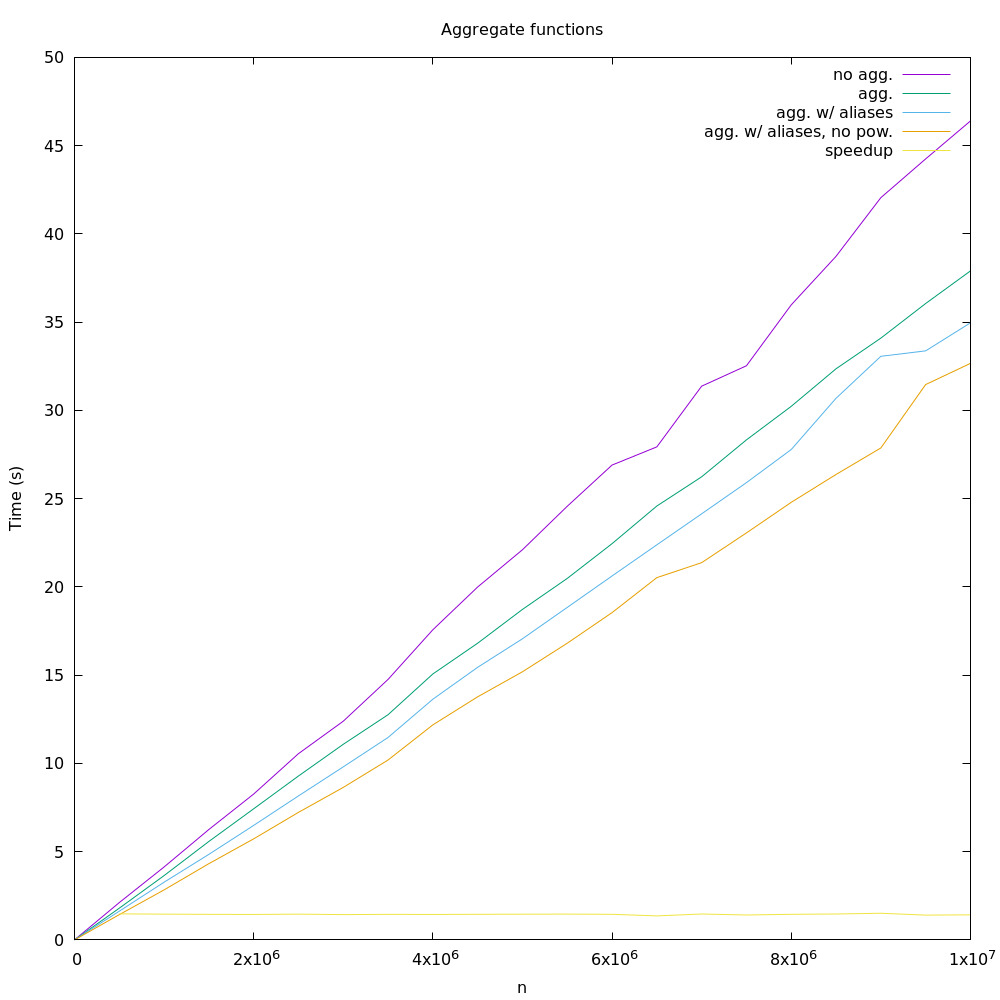
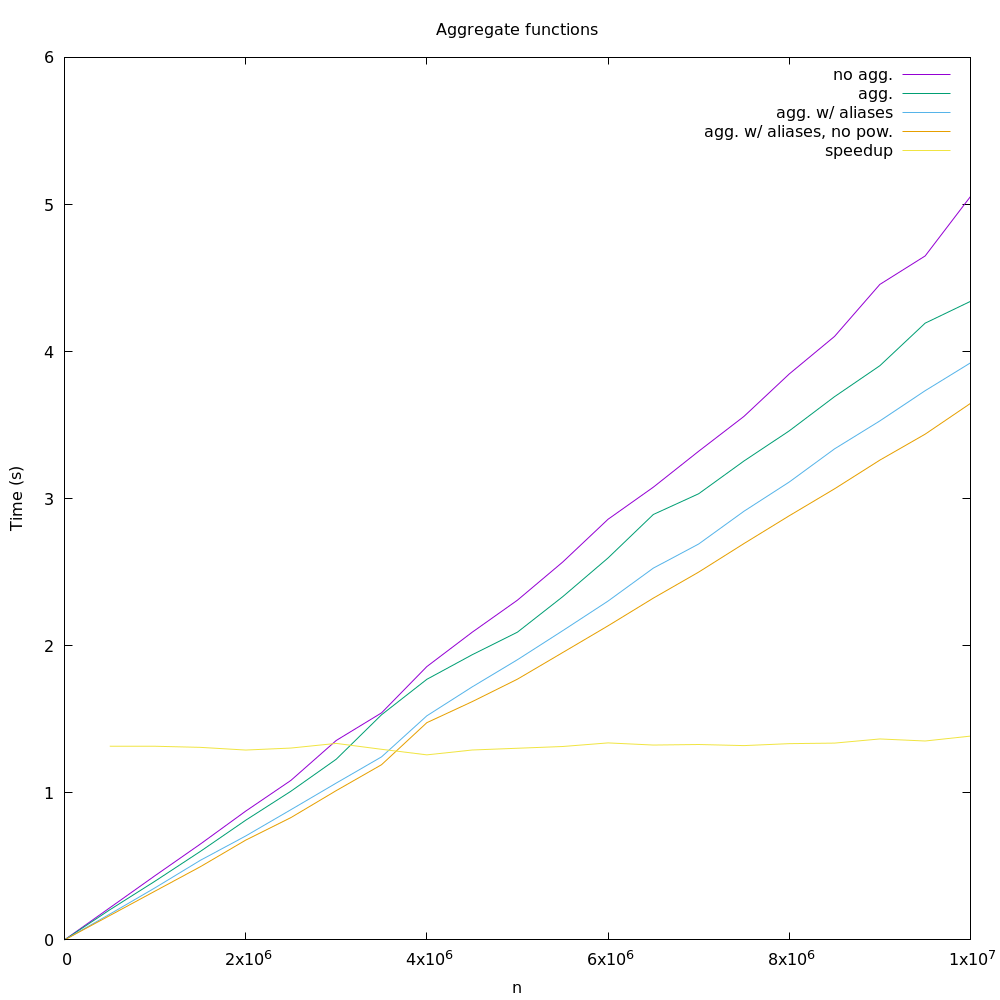
finished function aggregate lesson

diff --git a/src/optimizing-python/function-aggregate/exercise.py b/src/optimizing-python/function-aggregate/exercise.py
@@ -1,0 +1,60 @@
+'''
+Aggregate function exercise. 
+'''
+
+import random
+
+def buildData(n, defectRate):
+    '''
+    Build a list of sample data in the range [0, 1).
+    A certain percentage of the elements will be outside
+    the range; these represent invalid data points.
+
+    parameters
+    ----------
+        n - number of list elements
+        defectRate - percent of elements that are invalid
+
+    returns
+    -------
+        List of sample data with some invalid values. 
+    '''
+    values = []
+    rand = random.random
+    for i in range(n):
+        if rand() <= defectRate:
+            if rand() <= 0.5:
+                values.append(-rand())
+            else:
+                values.append(1.0 + rand())
+        else:
+            values.append(rand())
+    return values
+
+# TODO: replace this with a function that operates on
+# the aggregate instead of individual elements
+def validateElement(element):
+    '''
+    Determine if a single data point is valid.
+
+    parameter
+    ---------
+        element - number supposed to be in [0, 1)
+
+    returns 
+    -------
+        True if element is valid, False if it is not
+        in the specified range
+    '''
+    return element >= 0.0 and element < 1.0
+
+# main program
+n = 10_000_000
+defectRate = 0.01
+
+# build sample data
+originals = buildData(n, defectRate)
+
+# TODO: replace this with a call to your new function
+# filter data
+filteredData = [x for x in originals if validateElement(x)]

diff --git a/src/optimizing-python/function-aggregate/function-aggregate-01.py b/src/optimizing-python/function-aggregate/function-aggregate-01.py
@@ -3,9 +3,9 @@ import random
 import sys
 from timeit import default_timer as timer
 
-def euclideanToPolar(point):
+def cartesianToPolar(point):
     '''
-    Convert a Euclidean point to polar coordinates.
+    Convert a Cartesian point to polar coordinates.
 
     parameter
     ---------
@@ -26,9 +26,9 @@ for trial in range(5):
     euclideans = [(random.random(), random.random()) for i in range(n)]
 
     startTime = timer()
-    polars = [euclideanToPolar(p) for p in euclideans]
+    polars = [cartesianToPolar(p) for p in euclideans]
     stopTime = timer()
 
     elapsed += (stopTime - startTime)
 
-print('{0:d},{1:f}'.format(n, elapsed))
+print('{0:d},{1:f}'.format(n, elapsed / 5))

diff --git a/src/optimizing-python/function-aggregate/function-aggregate-02.py b/src/optimizing-python/function-aggregate/function-aggregate-02.py
@@ -3,9 +3,9 @@ import random
 import sys
 from timeit import default_timer as timer
 
-def euclideanToPolar(points):
+def cartesianToPolar(points):
     '''
-    Convert a list of Euclidean point to polar coordinates.
+    Convert a list of Cartesian point to polar coordinates.
 
     parameter
     ---------
@@ -25,9 +25,9 @@ for trial in range(5):
     euclideans = [(random.random(), random.random()) for i in range(n)]
 
     startTime = timer()
-    polars = euclideanToPolar(euclideans)
+    polars = cartesianToPolar(euclideans)
     stopTime = timer()
 
     elapsed += (stopTime - startTime)
 
-print('{0:d},{1:f}'.format(n, elapsed))
+print('{0:d},{1:f}'.format(n, elapsed / 5))

diff --git a/src/optimizing-python/function-aggregate/function-aggregate-03.py b/src/optimizing-python/function-aggregate/function-aggregate-03.py
@@ -3,9 +3,9 @@ import random
 import sys
 from timeit import default_timer as timer
 
-def euclideanToPolar(points):
+def cartesianToPolar(points):
     '''
-    Convert a list of Euclidean point to polar coordinates.
+    Convert a list of Cartesian point to polar coordinates.
 
     parameter
     ---------
@@ -27,9 +27,9 @@ for trial in range(5):
     euclideans = [(random.random(), random.random()) for i in range(n)]
 
     startTime = timer()
-    polars = euclideanToPolar(euclideans)
+    polars = cartesianToPolar(euclideans)
     stopTime = timer()
 
     elapsed += (stopTime - startTime)
 
-print('{0:d},{1:f}'.format(n, elapsed))
+print('{0:d},{1:f}'.format(n, elapsed / 5))

diff --git a/src/optimizing-python/function-aggregate/function-aggregate-04.py b/src/optimizing-python/function-aggregate/function-aggregate-04.py
@@ -3,9 +3,9 @@ import random
 import sys
 from timeit import default_timer as timer
 
-def euclideanToPolar(points):
+def cartesianToPolar(points):
     '''
-    Convert a list of Euclidean point to polar coordinates.
+    Convert a list of Cartesian point to polar coordinates.
 
     parameter
     ---------
@@ -27,9 +27,9 @@ for trial in range(5):
     euclideans = [(random.random(), random.random()) for i in range(n)]
 
     startTime = timer()
-    polars = euclideanToPolar(euclideans)
+    polars = cartesianToPolar(euclideans)
     stopTime = timer()
 
     elapsed += (stopTime - startTime)
 
-print('{0:d},{1:f}'.format(n, elapsed))
+print('{0:d},{1:f}'.format(n, elapsed / 5))
